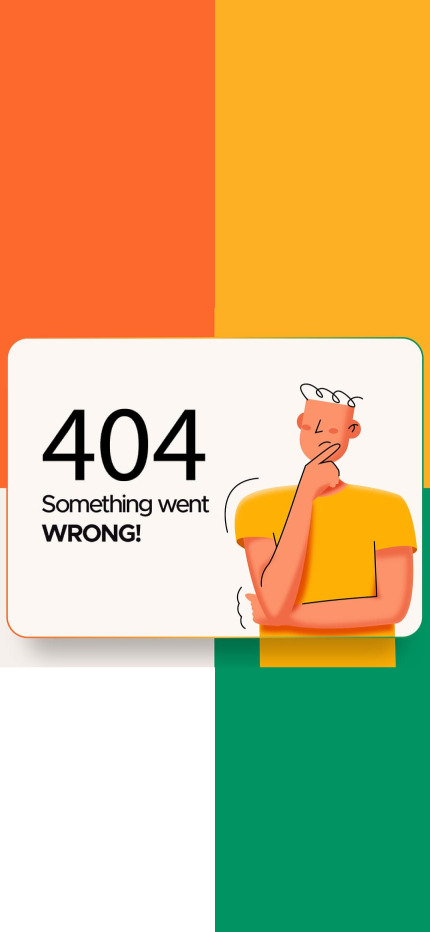
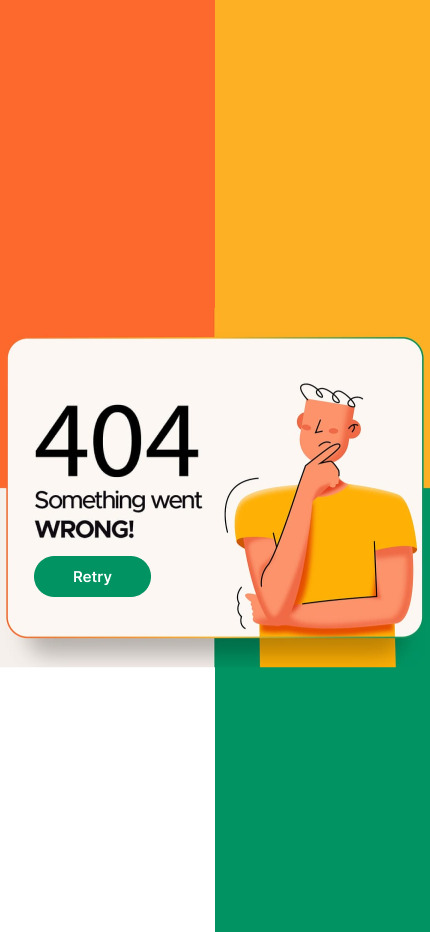
API Integrated

Changed region(s): [[0.0605, 0.4356, 0.4837, 0.6534]]

diff --git a/lib/screens/articles_screen/presentation/widgets/headline_articles_widgets.dart b/lib/screens/articles_screen/presentation/widgets/headline_articles_widgets.dart
@@ -1,5 +1,7 @@
 import 'package:flutter/material.dart';
 import 'package:flutter_riverpod/flutter_riverpod.dart';
+import 'package:loading_animation_widget/loading_animation_widget.dart';
+import 'package:news_api/core/utils/colors.dart';
 import 'package:news_api/screens/articles_screen/presentation/controller/news_notifier.dart';
 import 'package:news_api/screens/articles_screen/presentation/widgets/headline_article_btns.dart';
 import 'package:news_api/screens/articles_screen/presentation/widgets/headline_article_view.dart';
@@ -19,15 +21,19 @@ class ArticlesLoadedWidget extends ConsumerStatefulWidget {
 class _ArticlesState extends ConsumerState<ArticlesLoadedWidget> {
   //...CONSTANT VALUES
   static const _paddingFromBottom = 0.02;
-  static const _loadingStrokeWidth = 2.0;
-
-  late final NewsNotifier newsNotifier;
+  //...CONTROLLERS
+  final ScrollController _scrollController = ScrollController();
   @override
   void initState() {
-    newsNotifier = ref.read(newsNotifierProvider.notifier);
-    //.....THIS FUNCTION WILL BE TRIGGERED EVERY TIME WHEN WE SCROLL BUT WE WILL ONLY GET THE ARTICLES WHEN THE CONTROLLER WILL REACH ITS MAXIMUM POSITION.
-    newsNotifier.controller.addListener(newsNotifier.getHeadLineArticles);
     super.initState();
+    _scrollController.addListener(_scrollListener);
+  }
+
+  @override
+  void dispose() {
+    //...DISPOSE OFF THE CONTROLLER TO PREVENT ANY MEMORY LEAKS
+    _scrollController.dispose();
+    super.dispose();
   }
 
   @override
@@ -35,7 +41,7 @@ class _ArticlesState extends ConsumerState<ArticlesLoadedWidget> {
     final Size(:height) = MediaQuery.sizeOf(context);
     return Center(
       child: ListView.custom(
-        controller: newsNotifier.controller,
+        controller: _scrollController,
         childrenDelegate: SliverChildBuilderDelegate(
           childCount: widget.articles.length + 1,
           (context, index) {
@@ -48,11 +54,13 @@ class _ArticlesState extends ConsumerState<ArticlesLoadedWidget> {
                   article: widget.articles[index],
                 ),
               );
+              //...SHOW LOADING WHEN THE INDEX IS GREATER THEN THE ARTICLES LENGTH
             } else {
               if (widget.hasMoreData) {
-                return const Center(
-                  child: CircularProgressIndicator(
-                    strokeWidth: _loadingStrokeWidth,
+                return Center(
+                  child: LoadingAnimationWidget.staggeredDotsWave(
+                    color: AppColors.darkPurple,
+                    size: height * 0.08,
                   ),
                 );
               } else {
@@ -64,15 +72,23 @@ class _ArticlesState extends ConsumerState<ArticlesLoadedWidget> {
       ),
     );
   }
+
+  //.....THIS FUNCTION WILL BE TRIGGERED EVERY TIME WHEN WE SCROLL BUT WE WILL ONLY GET THE ARTICLES WHEN THE CONTROLLER WILL REACH ITS MAXIMUM POSITION.
+  void _scrollListener() {
+    if (_scrollController.position.pixels ==
+        _scrollController.position.maxScrollExtent) {
+      ref.read(newsNotifierProvider.notifier).getHeadLineArticles();
+    }
+  }
 }
 
 //...ERROR WIDGET TO SHOW IN CASE OR ERROR
 class ArticlesErrorWidget extends StatelessWidget {
   const ArticlesErrorWidget({super.key});
-  //...IMAGES PATHS
+  //...IMAGE PATH
   static const _errorImage = 'assets/images/error_page.jpg';
   //...PADDING VALUES
-  static const _paddingFromTop = 0.6;
+  static const _paddingFromTop = 0.59;
   static const _paddingFromLeft = 0.1;
   @override
   Widget build(BuildContext context) {

diff --git a/lib/screens/articles_screen/presentation/controller/news_notifier.dart b/lib/screens/articles_screen/presentation/controller/news_notifier.dart
@@ -1,6 +1,5 @@
 import 'dart:developer';
 
-import 'package:flutter/material.dart';
 import 'package:flutter_riverpod/flutter_riverpod.dart';
 import 'package:news_api/screens/articles_screen/data/respositories/news_repo_impl.dart';
 import 'package:news_api/screens/articles_screen/domain/models/article.dart';
@@ -13,53 +12,42 @@ final newsNotifierProvider =
 class NewsNotifier extends Notifier<NewsStates> {
   @override
   NewsStates build() {
-    //...DISPOSE OFF THE CONTROLLER AFTER USE TO PREVENT MEMORY LEAKS
-    ref.onDispose(controller.dispose);
     return const NewsInitialState(hasMoreData: false);
   }
 
+  //...ERROR MESSAGE
+  static const _errorMessage = 'Check Your Internet Connection!';
   //...SOURCE
   static const _source = 'bbc-news';
-  //...SCROLL CONTROLLER FOR PAGINATION
-  final ScrollController controller = ScrollController();
   //...TO KEEP TRACK OF THE CURRENT PAGE
   var _page = 1;
   //...TOTAL ITEMS TO SHOW ON THE SCREEN
   static const _pageSize = 4;
   //...TO KEEP TRACK IF THERE IS MORE DATA AVAILABLE AT HE SERVER OR NOT
   var _hasMoreData = true;
-  //...IF A USER RTRIES TO GET THE DATA AFTER ERROR THERE WILL BE NO SCROLL CONTROLLER SO WE WILL GET THE DATA ON THE BASIS OF THIS BOOLEAN
-  var _isRetryPressed = false;
   //... A LIST OF HEADLINES TO KEEP THE PREVIOUS DATA STORED AND THE INCOMING DATA FROM THE SERVER
   var articles = <Article>[];
 
   //....THIS FUNCTION WILL GET THE HEADLINES FROM THE SERVER
-  void getHeadLineArticles({bool? retryPressed}) async {
+  void getHeadLineArticles() async {
     try {
       //...IF THERE IS MORE DATA AVAILABLE ONLY THEN WE WILL GET IT.
       if (_hasMoreData) {
-        //...IF A USER PRESSES RETRY AFTER A FAILED REQUEST WE WILL GET THE DATA FROM THE SERVER AGAIN ON THE BASIS OF THIS BOOL BECAUSE AT THAT PARTICULAR PAGE THERE WILL BE NO SCROLL CONTROLLER ATTACHED TO ANY SCROLL VIEWS
-        _isRetryPressed = retryPressed ?? false;
-        //...OTHER WISE IF THE SCROLL CONTROLLER REACHES IT'S MAX EXTENT THAN WE WILL FETCH THE NEXT DATA AND STORE IT IN THE ARTICLES LIST AND CHECK IF THERE IS MORE DATA AVAILABLE OR NOT.
-        if (_isRetryPressed ||
-            controller.position.pixels == controller.position.maxScrollExtent) {
-          state = NewsLoadingState(hasMoreData: _hasMoreData);
-          var response = await ref
-              .read(newsRepositoryProvider)
-              .getHeadLineArticles(
-                  source: _source, page: _page, pageSize: _pageSize);
-          articles.addAll(response.articles);
-          _hasMoreData = (_page < response.totalResults ~/ _pageSize);
-          _page++;
-          _isRetryPressed = false;
-          state = HeadlineArticlesLoadedState(
-              articles: articles, hasMoreData: _hasMoreData);
-        }
+        state = NewsLoadingState(hasMoreData: _hasMoreData);
+        var response = await ref
+            .read(newsRepositoryProvider)
+            .getHeadLineArticles(
+                source: _source, page: _page, pageSize: _pageSize);
+        articles.addAll(response.articles);
+        _hasMoreData = (_page < response.totalResults ~/ _pageSize);
+        _page++;
+        state = HeadlineArticlesLoadedState(
+            articles: articles, hasMoreData: _hasMoreData);
       }
     } catch (e) {
       //...IF SOMETHING GOES WRONG RETURN ERROR STATE
       log(e.toString());
-      state = NewsErrorState();
+      state = const NewsErrorState(errorMessage: _errorMessage);
     }
   }
 }

diff --git a/lib/screens/articles_screen/presentation/widgets/headline_article_btns.dart b/lib/screens/articles_screen/presentation/widgets/headline_article_btns.dart
@@ -4,12 +4,12 @@ import 'package:news_api/core/utils/colors.dart';
 import 'package:news_api/core/utils/styles.dart';
 import 'package:news_api/screens/articles_screen/presentation/controller/news_notifier.dart';
 
-//...MORE BTN TO SHOW ON ARTICLE CARD AND TO NAVIGATE THE USER TO SEE FULL NEWS
+//...MORE BTN TO SHOW ON ARTICLE CARD AND TO NAVIGATE THE USER TO SEE FULL NEWS.
 class MoreButton extends StatelessWidget {
   const MoreButton({super.key});
   //...SIZES
   static const _containerWidth = 0.4;
-  static const _containerHeight = 0.7;
+  static const _containerHeight = 0.66;
   //...PADDING VALUES
   static const _paddingFromRight = 20.0;
   static const _paddingFromBottom = 5.0;
@@ -25,7 +25,9 @@ class MoreButton extends StatelessWidget {
         return Center(
           child: Padding(
             padding: const EdgeInsets.only(
-                right: _paddingFromRight, bottom: _paddingFromBottom),
+              right: _paddingFromRight,
+              bottom: _paddingFromBottom,
+            ),
             child: Container(
               width: maxWidth * _containerWidth,
               height: maxHeight * _containerHeight,
@@ -53,32 +55,17 @@ class MoreButton extends StatelessWidget {
 class RetryButton extends ConsumerWidget {
   const RetryButton({super.key});
   //...SIZES
-  static const _containerWidth = 0.2;
-  static const _containerHeight = 0.05;
-  //...DECORATION
-  static const _borderRadius = 20.0;
-  //...TEXTS
-  static const _btnText = 'RETRY';
+  static const _btnWidth = 0.23;
+  static const _btnHeight = 0.05;
   @override
   Widget build(BuildContext context, WidgetRef ref) {
     final Size(:width, :height) = MediaQuery.sizeOf(context);
     return GestureDetector(
-      onTap: () => ref
-          .read(newsNotifierProvider.notifier)
-          .getHeadLineArticles(retryPressed: true),
+      onTap: ref.read(newsNotifierProvider.notifier).getHeadLineArticles,
       child: Container(
-        width: width * _containerWidth,
-        height: height * _containerHeight,
-        decoration: BoxDecoration(
-          color: AppColors.lightGreen,
-          borderRadius: BorderRadius.circular(_borderRadius),
-        ),
-        child: const Center(
-          child: Text(
-            _btnText,
-            style: AppTextStyles.newsBtnStyle,
-          ),
-        ),
+        width: width * _btnWidth,
+        height: height * _btnHeight,
+        color: Colors.transparent,
       ),
     );
   }

diff --git a/lib/screens/articles_screen/presentation/widgets/headline_articles_list.dart b/lib/screens/articles_screen/presentation/widgets/headline_articles_list.dart
@@ -1,5 +1,7 @@
 import 'package:flutter/material.dart';
+import 'package:flutter/scheduler.dart';
 import 'package:flutter_riverpod/flutter_riverpod.dart';
+import 'package:news_api/core/utils/common_functions.dart';
 import 'package:news_api/screens/articles_screen/presentation/controller/news_notifier.dart';
 import 'package:news_api/screens/articles_screen/presentation/controller/news_states.dart';
 import 'package:news_api/screens/articles_screen/presentation/widgets/headlines_widgets.dart';
@@ -9,15 +11,25 @@ class HeadLineArticlesList extends ConsumerWidget {
 
   @override
   Widget build(BuildContext context, WidgetRef ref) {
-    var newsNotifier = ref.read(newsNotifierProvider.notifier);
     var state = ref.watch(newsNotifierProvider);
-    if (state is NewsInitialState || state is NewsLoadingState) {
+    if (state is NewsInitialState) {
+      return const SizedBox();
+    } else if (state is NewsLoadingState) {
+      //...WE WILL DISPLAY THE ALREADY PRESENT DATA TO THE USER IN CASE OF LAODING
       return ArticlesLoadedWidget(
-          articles: newsNotifier.articles, hasMoreData: state.hasMoreData!);
+          articles: ref.read(newsNotifierProvider.notifier).articles,
+          hasMoreData: state.hasMoreData!);
     } else if (state is HeadlineArticlesLoadedState) {
       return ArticlesLoadedWidget(
           articles: state.articles, hasMoreData: state.hasMoreData!);
     } else {
+      //...WE WILL SHOW A SNACKBAR CONTAINING THE ERROR MESSAGE
+      SchedulerBinding.instance.addPostFrameCallback(
+        (_) => showSnackBar(
+          context,
+          (state as NewsErrorState).errorMessage,
+        ),
+      );
       return const ArticlesErrorWidget();
     }
   }

diff --git a/lib/screens/articles_screen/domain/models/article.dart b/lib/screens/articles_screen/domain/models/article.dart
@@ -12,6 +12,8 @@ class Article {
   final String urlToImage;
   final String publishedAt;
   final String content;
+  static const defaultImage =
+      'https://images.unsplash.com/photo-1523995462485-3d171b5c8fa9?w=500&auto=format&fit=crop&q=60&ixlib=rb-4.0.3&ixid=M3wxMjA3fDB8MHxzZWFyY2h8MTR8fG5ld3MlMjBhcnRpY2xlfGVufDB8fDB8fHww';
   Article({
     required this.source,
     required this.author,
@@ -65,8 +67,7 @@ class Article {
       title: map['title'] ?? '',
       description: map['description'] ?? '',
       url: map['url'] ?? '',
-      urlToImage: map['urlToImage'] ??
-          'https://images.unsplash.com/photo-1523995462485-3d171b5c8fa9?w=500&auto=format&fit=crop&q=60&ixlib=rb-4.0.3&ixid=M3wxMjA3fDB8MHxzZWFyY2h8MTR8fG5ld3MlMjBhcnRpY2xlfGVufDB8fDB8fHww',
+      urlToImage: map['urlToImage'] ?? defaultImage,
       publishedAt: map['publishedAt'] ?? '',
       content: map['content'] ?? '',
     );

diff --git a/lib/core/utils/common_functions.dart b/lib/core/utils/common_functions.dart
@@ -1,0 +1,28 @@
+import 'package:flutter/material.dart';
+import 'package:news_api/core/utils/colors.dart';
+
+showSnackBar(BuildContext context, String message) {
+  ScaffoldMessenger.of(context).showSnackBar(
+    SnackBar(
+      content: Center(
+        child: Text(
+          message,
+          style: const TextStyle(
+            color: AppColors.blackColor,
+          ),
+        ),
+      ),
+      duration: const Duration(
+        seconds: 1,
+      ),
+      backgroundColor: AppColors.darkYellow,
+      behavior: SnackBarBehavior.floating,
+      width: 350,
+      shape: ContinuousRectangleBorder(
+        borderRadius: BorderRadius.circular(
+          30,
+        ),
+      ),
+    ),
+  );
+}

diff --git a/lib/screens/articles_screen/data/data_sources/remote/news_service.dart b/lib/screens/articles_screen/data/data_sources/remote/news_service.dart
@@ -20,8 +20,16 @@ abstract class NewsApiService {
   fetch({required String endPoint}) async {
     try {
       final url = '$baseUrl$endPoint';
-      var response = await get(Uri.parse(url));
-      return response.isSuccessful ? jsonDecode(response.body) : null;
+      var response = await get(
+        Uri.parse(
+          url,
+        ),
+      );
+      return response.isSuccessful
+          ? jsonDecode(
+              response.body,
+            )
+          : null;
     } catch (e) {
       log(e.toString());
       return null;

diff --git a/lib/core/utils/colors.dart b/lib/core/utils/colors.dart
@@ -2,9 +2,11 @@ import 'package:flutter/material.dart';
 
 class AppColors {
   static const whiteColor = Colors.white;
+  static const blackColor = Colors.black;
   static const dimBlackColor = Colors.black26;
   static const greyishPink = Color.fromARGB(255, 244, 238, 238);
   static const darkPurple = Color.fromARGB(255, 63, 58, 88);
   static const lightGrey = Color.fromARGB(255, 205, 205, 207);
   static const lightGreen = Color.fromARGB(255, 1, 147, 98);
+  static const darkYellow = Color.fromARGB(255, 255, 188, 6);
 }

diff --git a/lib/screens/articles_screen/domain/repositories/news_repo.dart b/lib/screens/articles_screen/domain/repositories/news_repo.dart
@@ -2,7 +2,6 @@ import '../models/headlines_response.dart';
 
 //....THIS CLASS WILL CONTAIN ALL THE ABSTRACT FUNCTIONS REALTED TO NEWS SERVER FOR BETTER AND MAINTAINABLE CODE AND AS THE API KEY WILL REMAIN SAME WE WILL DEFINE IT HERE
 abstract class AbstractNewsRepository {
-  static const apiKey = 'b75331e9366941d0a9b490e4e0e844e8';
   //......TO GET HEADLINE ARTICLES
   Future<HeadLinesResponse> getHeadLineArticles(
       {required String source, required int page, required int pageSize});

diff --git a/lib/screens/articles_screen/presentation/widgets/headline_article_details.dart b/lib/screens/articles_screen/presentation/widgets/headline_article_details.dart
@@ -27,10 +27,11 @@ class ArticleDetails extends StatelessWidget {
           ),
         ),
         Expanded(
-          flex: Flexes.flexTen,
+          flex: 6,
           child: Center(
             child: Text(
               article.title,
+              maxLines: 2,
               style: AppTextStyles.newsTitleStyle,
             ),
           ),

diff --git a/lib/screens/articles_screen/presentation/controller/news_states.dart b/lib/screens/articles_screen/presentation/controller/news_states.dart
@@ -25,4 +25,7 @@ final class HeadlineArticlesLoadedState extends NewsStates {
 }
 
 @immutable
-final class NewsErrorState extends NewsStates {}
+final class NewsErrorState extends NewsStates {
+  final String errorMessage;
+  const NewsErrorState({required this.errorMessage});
+}

diff --git a/lib/main.dart b/lib/main.dart
@@ -13,6 +13,7 @@ class MyApp extends StatelessWidget {
   Widget build(BuildContext context) {
     return const ProviderScope(
       child: MaterialApp(
+        debugShowCheckedModeBanner: false,
         home: HeadLineArticles(),
       ),
     );
